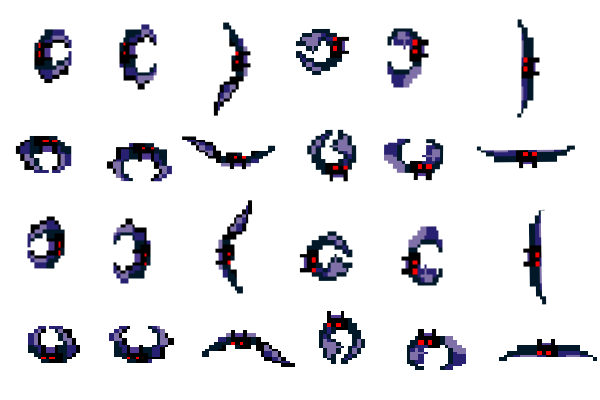
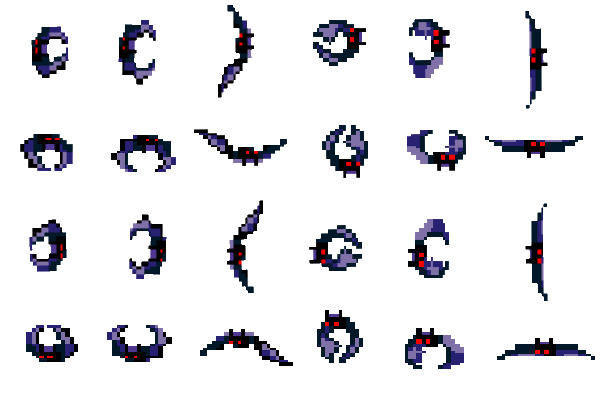
update
55

diff --git a/Dongsuk/Play/main_state.py b/Dongsuk/Play/main_state.py
@@ -137,7 +137,7 @@ class Object:
                 self.new()
     def draw(self):
         global stage
-        self.image.clip_draw(self.frame * 100, (stage%4) * 100, 100, 100, self.x, self.y)
+        self.image.clip_draw(self.frame * 100, (stage%4) * 100, 95, 95, self.x, self.y)
 class Object2:
     def __init__(self):
         self.image = load_image('Resource/horn00.png')
